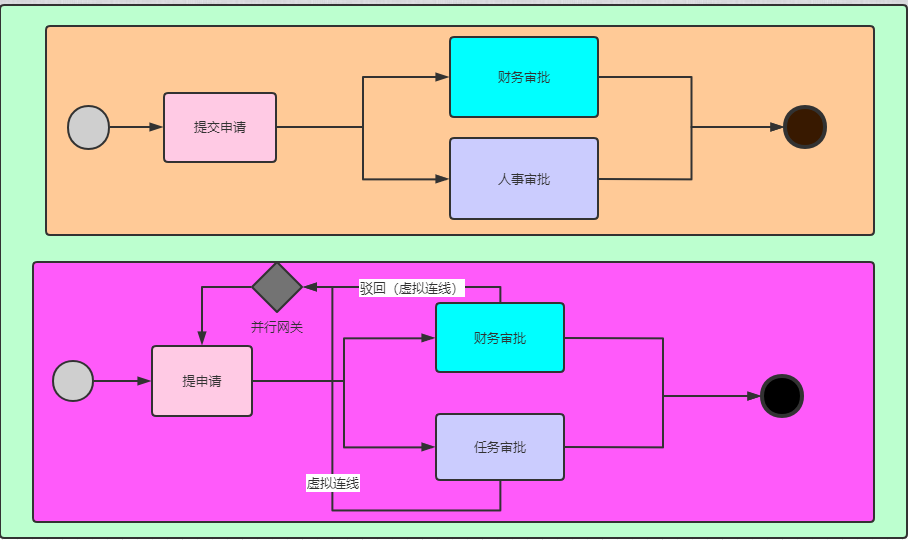
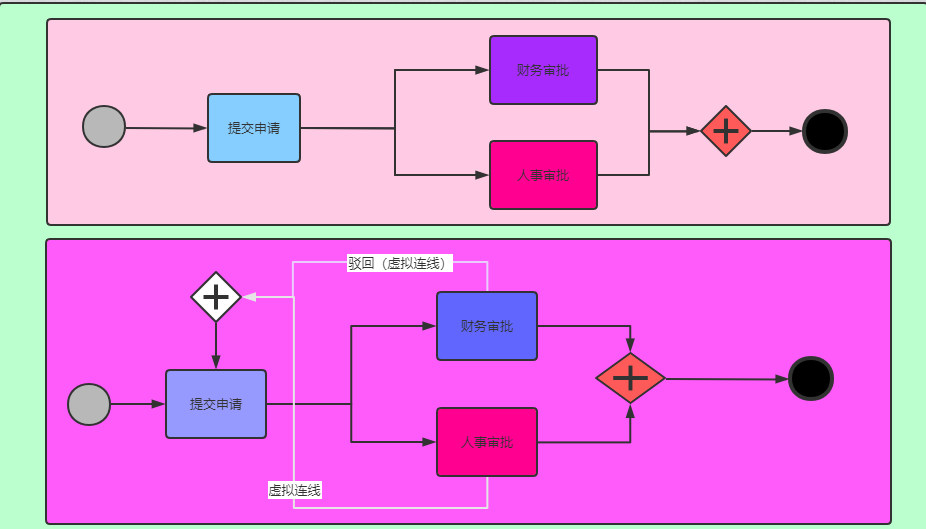
驳回过程图修改

diff --git a/README.md b/README.md
@@ -22,7 +22,7 @@
 
 驳回过程
 
-![](https://img-blog.csdnimg.cn/20200526220007640.png?x-oss-process=image/watermark,type_ZmFuZ3poZW5naGVpdGk,shadow_10,text_aHR0cHM6Ly9ibG9nLmNzZG4ubmV0L3FxXzM0NzU4MDc0,size_16,color_FFFFFF,t_70)
+![](https://oscimg.oschina.net/oscnet/up-12202dfbc07857e4b9a33dec256d9b29b74.png)
 
 
 扩展支持节点抄送，通过重写**UserTaskActivityBehavior**的handleAssignments将抄送用户存入数据库。具体修改代码位于[com.gogoing.workflow.bpmn][3]。
